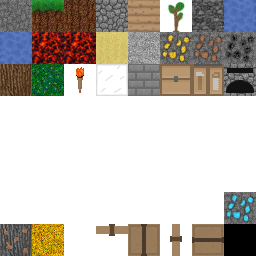
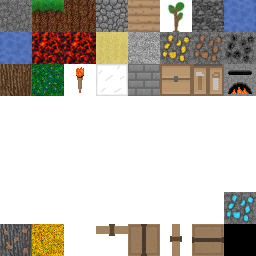
Добавлена печка

Changed region(s): [[0.875, 0.25, 1.0, 0.375]]

diff --git a/Scripts/crafts.js b/Scripts/crafts.js
@@ -1,5 +1,5 @@
 // Список того, что можно крафтить по инвентарю
-const getCrafts = (inventory, isCraftingTable) => {
+const getCrafts = (inventory, isCraftingTable, isFurnace) => {
 
 	const addToSet = (array, obj) => {
 		for(let i = 0; i < array.length; i++) {
@@ -14,12 +14,21 @@ const getCrafts = (inventory, isCraftingTable) => {
 		if (inventory.items[i] === undefined) continue;
 
 		let id = (inventory.items[i].id) ? inventory.items[i].id : inventory.items[i];
+		if (+id === 263 && isFurnace) continue;
 
 		let canCraft = needForCraft[id];
+
 		if (canCraft) {
 			for(let j = 0; j < canCraft.length; j++) {
-				if ((crafts[canCraft[j]].needCradftingTable && isCraftingTable
-						|| !crafts[canCraft[j]].needCradftingTable)) {
+				if (isFurnace && crafts[canCraft[j]].needFurance) {
+					if (isReadyCraft(canCraft[j], inventory)) {
+						addToSet(ready, canCraft[j]);
+					} else {
+						addToSet(notReady, canCraft[j]);
+					}
+				} else if (!isFurnace && (!crafts[canCraft[j]].needFurance
+						&& (crafts[canCraft[j]].needCradftingTable && isCraftingTable
+							|| !crafts[canCraft[j]].needCradftingTable))) {
 					if (isReadyCraft(canCraft[j], inventory)) {
 						addToSet(ready, canCraft[j]);
 					} else {
@@ -47,7 +56,7 @@ const getCrafts = (inventory, isCraftingTable) => {
 		}),
 	}
 }
-const isReadyCraft = (id, inventory) => {
+const isReadyCraft = (id, inventory, isFurnace) => {
 	let need = crafts[id];
 	for(let i = 0; i < need.needId.length; i++) {
 		let count = 0;
@@ -67,6 +76,12 @@ const isReadyCraft = (id, inventory) => {
 
 // Элемент -> что нужно для крафта
 let crafts = {
+	'1': {
+		needId: [ 4, 263 ],
+		needCount: [ 5, 2 ],
+		needFurance: true,
+		resultCount: 5
+	},
 	'5': {
 		needId: [ 17 ],
 		needCount: [ 1 ],
@@ -83,6 +98,23 @@ let crafts = {
 		needCount: [ 8 ],
 		needCradftingTable: true,
 		resultCount: 1
+	},
+    '23': {
+		needId: [ 5, 4 ],
+		needCount: [ 6, 1 ],
+		resultCount: 1
+	},
+	'24': {
+		needId: [ 4 ],
+		needCount: [ 8 ],
+		needCradftingTable: true,
+		resultCount: 1
+	},
+	'263': {
+		needId: [ 17, 263 ],
+		needCount: [ 1, 1 ],
+		needFurance: true,
+		resultCount: 3
 	},
 	'267': {
 		needId: [ 5 ],
@@ -156,12 +188,7 @@ let crafts = {
     	needCount: [ 1, 2 ],
 		needCradftingTable: true,
     	resultCount: 1
-    },
-    '23': {
-		needId: [ 5, 4 ],
-		needCount: [ 6, 1 ],
-		resultCount: 1
-	}
+    }
 }
 
 // Элемент -> объекты, которые из него крафтятся

diff --git a/Scripts/UI.js b/Scripts/UI.js
@@ -1672,6 +1672,8 @@ const UIOpenCraft = (x, y, layout) => {
 
     isCraftingTable = lastCraftBlock
                         && gameArea.get(lastCraftBlock.x, lastCraftBlock.y, lastCraftBlock.layout) === 23;
+    isFurnace = lastCraftBlock
+                        && gameArea.get(lastCraftBlock.x, lastCraftBlock.y, lastCraftBlock.layout) === 24;
 
     if (UIMap.craftPanel) screenUI.deleteChild(UIMap.craftPanel.id);
 
@@ -1785,7 +1787,7 @@ const UIOpenCraft = (x, y, layout) => {
 
     // Наличие блоков для крафта
     let craftingTable = new Sprite(
-        isCraftingTable ? items[23].texture() : [ [0.250, 0.51], [0.375, 0.615] ],
+        isCraftingTable ? items[23].texture() : (isFurnace ? items[24].texture() : undefined),
         {
             pa: {
                 x: 1,
@@ -1852,7 +1854,7 @@ const UIOpenCraft = (x, y, layout) => {
                 y: -10
             }
         });
-    label.add(createText("Crafting"));
+    label.add(createText(isCraftingTable ? "Crafting Table" : (isFurnace ? "Furnace" : "Crafting")));
     UIMap.craftLabel = label;
     UIMap.craftPanel.add(label);
 
@@ -2009,7 +2011,7 @@ const reloadCraft = () => {
     let scrollingContent = UIMap.craftScrollingContent;
     scrollingContent.deleteChildren();
 
-    let availableCraft = getCrafts(player.inv, isCraftingTable);
+    let availableCraft = getCrafts(player.inv, isCraftingTable, isFurnace);
 
     // Добавляем готовые предметы
     for (let i = 0; i < availableCraft.ready.length; i++) {
@@ -2055,8 +2057,9 @@ const reloadCraft = () => {
         },
         () => {
             let id = availableCraft.ready[i];
-            while (id === getCrafts(player.inv, isCraftingTable).ready[i] && isReadyCraft(id, player.inv)) {
-                availableCraft = getCrafts(player.inv, isCraftingTable);
+            while (isReadyCraft(id, player.inv)) {
+                availableCraft = getCrafts(player.inv, isCraftingTable, isFurnace);
+                if (id !== availableCraft.ready[i]) break;
                 for(let k = 0; k < crafts[availableCraft.ready[i]].needId.length; k++) {
                     for(let j = 0; j < player.inv.items.length; j++) {
                         if (+player.inv.items[j] === crafts[availableCraft.ready[i]].needId[k]) {

diff --git a/Scripts/items.js b/Scripts/items.js
@@ -534,6 +534,30 @@ const items = {
         }
     },
 
+    '24':
+    {
+        id: '24',
+        name: 'Furnace',
+        type: 'stone',
+        isBlock: true,
+        isCollissed: true,
+        isClickable: true,
+        durability: 5,
+        brightness: 4,
+        isSolid: true,
+        weight: WEIGHT_OF_BLOCKS,
+        texture: () => {
+            return getTextureCoordinates(15, 1)
+        },
+        interactFunction: (x, y, layout) => {
+            if (craftOpened) {
+                UICloseCraft();
+            } else {
+                UIOpenCraft(x, y, layout);
+            }
+        }
+    },
+
     '56':
     {
         id: '56',
